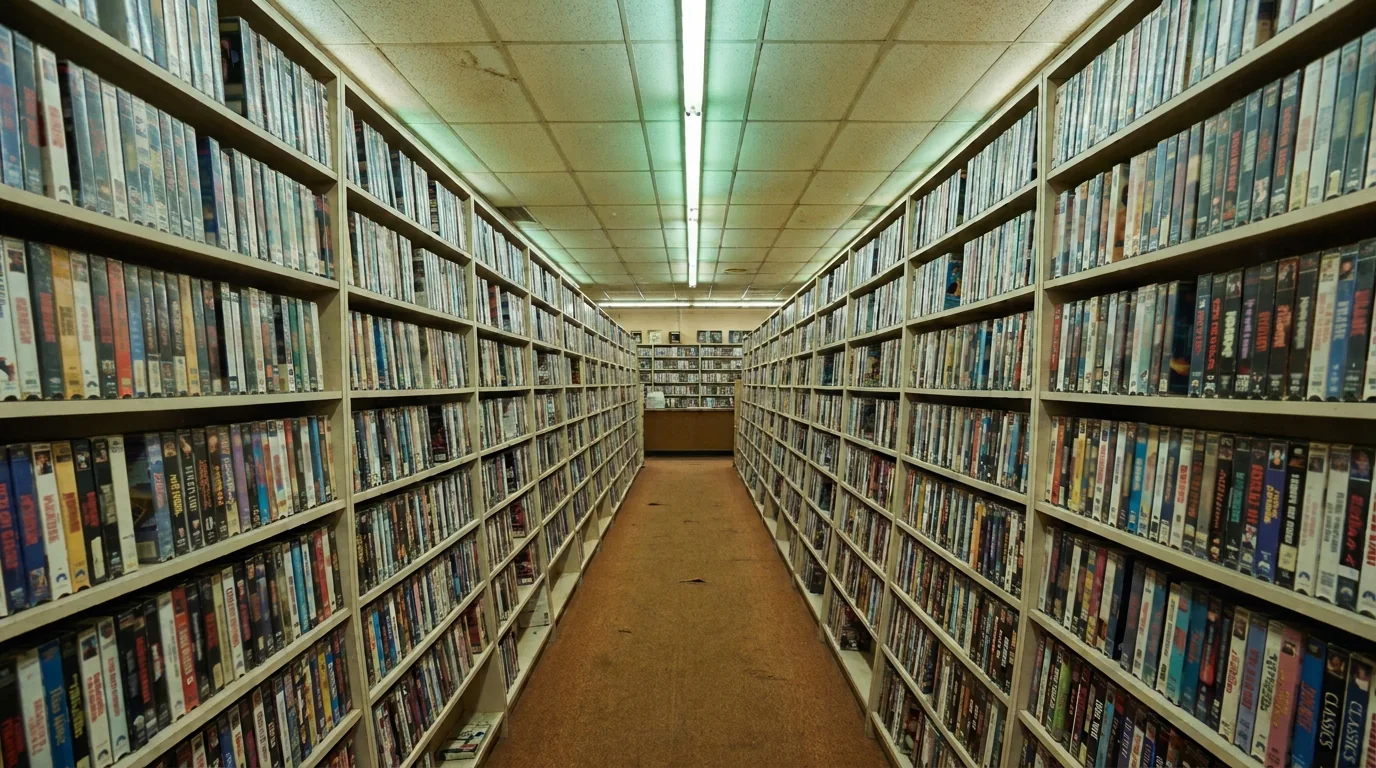
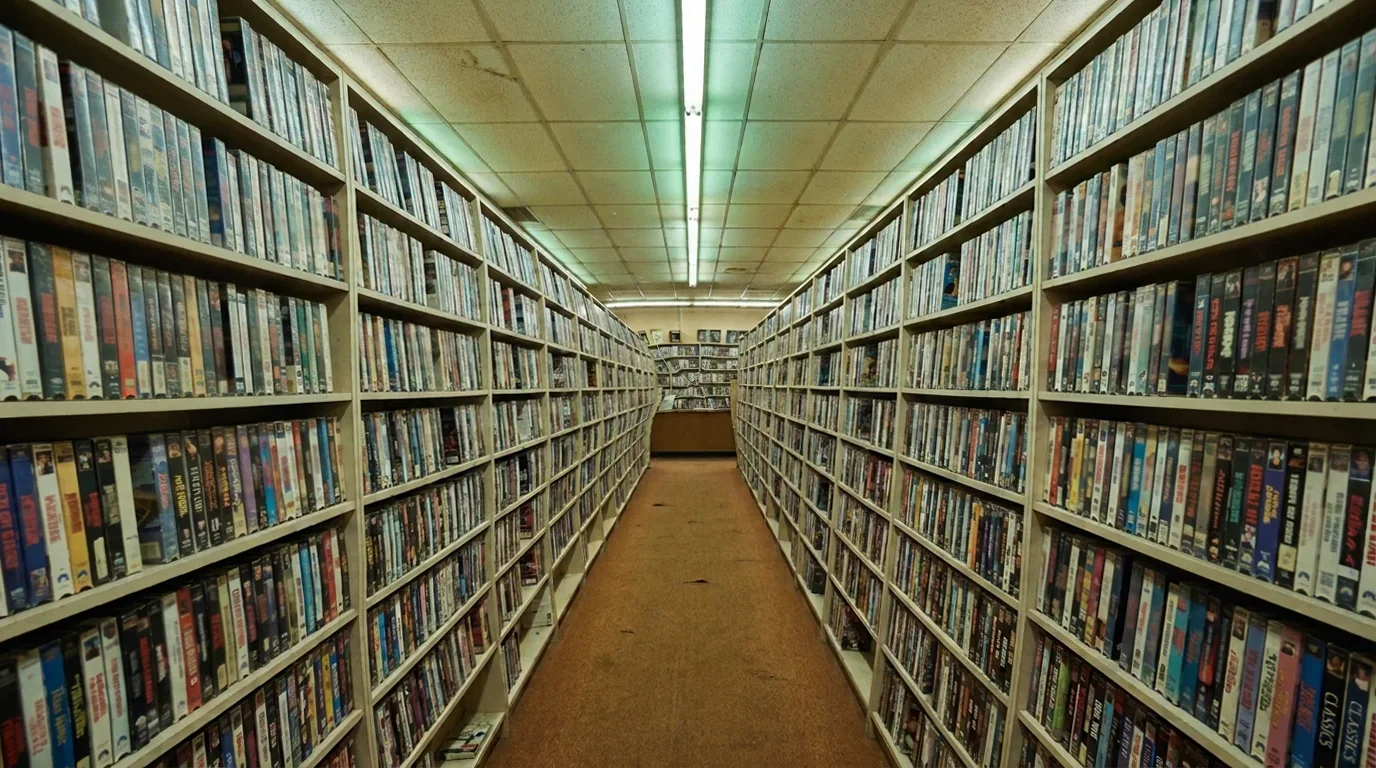
Video Kave, allée : photo redressée, mur gauche, mur droit, plafond et sol fuient vers un même point à 3 px près (avant : 28 px d'écart) ; planches, haut des étagères, plinthes et néon se prolongent d'un niveau emboîté à l'autre ; fondus du raccord resserrés, la fin du néon et la rampe transversale 
Claude-Session: https://claude.ai/code/session_014nJuEKtcDcjgZmvCVg6pCS

diff --git a/kave/videoclub.html b/kave/videoclub.html
@@ -138,7 +138,7 @@ function fit(){var W=innerWidth,Hh=innerHeight-barH(),sw=Math.min(W,Hh*IA),cov=M
 var cv=$('#hall'),gl=null,P=null,U={},TEX=null,img=new Image(),ready=false;
 /* 13 nov. 2026 (Mauk Tenieb) : nouvelles photos de l'allée, du rayon et du comptoir ; point de fuite, rayon et comptoir recalés */
 /* 10 nov. (A51) : l'allée sans fond ; le fond de l'allée contient la même allée, trois fois plus petite, à l'infini (récursion au point de fuite), sous l'optique en barillet qui mange les bords */
-/* 22 nov. (Mauk Tenieb : « ce filtre venant se répandre par le haut droit ») : à chaque bouclage, le cadrage montrait le bord haut de la photo, fondu au noir ; Z0 cadre désormais toujours à l'intérieur de la photo, coins compris */var K=.2,Z0=.83,KD=.33,V=[.5033,.5005]/* 22 nov. : point de fuite relevé sur la photo (néon à x 692,5 px, étagères à y 384 px) : la copie emboîtée prolonge le néon sans cassure */,HOLE=[552/1376,275/768,808/1376,505/768],R0=HOLE.map(function(x,j){var c=V[j%2];return c+(x-c)/KD}),FV=[180/1376,115/768];
+/* 22 nov. (Mauk Tenieb : « ce filtre venant se répandre par le haut droit ») : à chaque bouclage, le cadrage montrait le bord haut de la photo, fondu au noir ; Z0 cadre désormais toujours à l'intérieur de la photo, coins compris */var K=.2,Z0=.83,KD=.33,V=[692.1/1376,383/768]/* 26 nov. : photo redressée ; mur gauche, mur droit, plafond et sol fuient vers ce point à 3 px près (avant : 28 px d'écart) ; planches, haut des étagères, plinthes et néon se prolongent d'un niveau emboîté à l'autre */,HOLE=[552/1376,275/768,808/1376,505/768],R0=HOLE.map(function(x,j){var c=V[j%2];return c+(x-c)/KD}),FV=[60/1376,30/768]/* 26 nov. : fondus du raccord resserrés (le fond devient opaque dès y 284 au plafond, 19 px sur les côtés) ; la fin du néon et la rampe transversale ne transparaissent plus en arc */;
 var S={D:0,v:0,push:0,foc:[.5,.49],hl:[0,0,0],hlT:[0,0,0],lum:1,tm:0,intro:-1};
 var CREEP=RM?0:.022;
 var VS='attribute vec2 p;void main(){gl_Position=vec4(p,0.,1.);}';
@@ -146,7 +146,7 @@ var VS='attribute vec2 p;void main(){gl_Position=vec4(p,0.,1.);}';
 var FS='precision highp float;uniform sampler2D T,T2;uniform vec2 R,Vp,Fo,Fv;uniform float Uu,Lk,Kd,Kk,Z,Pu,Lu,Tm,Ia,E1,F1;uniform vec3 Hl;uniform vec4 M1,M0;'+
 'vec2 fin(vec2 s){return Fo+(s-Fo)*(1.-.6*Pu);}'+
 'float ins(vec2 s){vec2 m=min(s,1.-s);return smoothstep(0.,.012,m.x)*smoothstep(0.,.012,m.y);}'+
-'float in2(vec2 s){vec2 m=min(s,1.-s);return smoothstep(0.,.2,m.x)*smoothstep(0.,.26,s.y)*smoothstep(0.,.09,1.-s.y);}'+
+'float in2(vec2 s){vec2 m=min(s,1.-s);return smoothstep(0.,.1,m.x)*smoothstep(0.,.1,s.y)*smoothstep(0.,.06,1.-s.y);}'+
 'float bx(vec2 p,vec4 r,vec2 f){return smoothstep(r.x,r.x+f.x,p.x)*smoothstep(r.z,r.z-f.x,p.x)*smoothstep(r.y,r.y+f.y,p.y)*smoothstep(r.w,r.w-f.y,p.y);}'+
 'vec3 bl(vec2 t){return max(texture2D(T2,clamp(t,.0,1.)).rgb,vec3(.03));}'+
 'void main(){vec2 q=(gl_FragCoord.xy-.5*R)/R.y;q.y=-q.y;float a=R.x/R.y,r2=dot(q,q)/(a*a*.25+.25),c=max(1.,a/Ia);'+
@@ -210,8 +210,8 @@ function startHall(){if(gl){gl.activeTexture(gl.TEXTURE0);TEX=gl.createTexture()
   gl.texParameteri(gl.TEXTURE_2D,gl.TEXTURE_MIN_FILTER,gl.LINEAR);gl.texParameteri(gl.TEXTURE_2D,gl.TEXTURE_MAG_FILTER,gl.LINEAR);var bc=document.createElement('canvas');bc.width=48;bc.height=27;var bx2=bc.getContext('2d');bx2.imageSmoothingQuality='high';bx2.drawImage(img,0,0,48,27);gl.activeTexture(gl.TEXTURE1);var TB=gl.createTexture();gl.bindTexture(gl.TEXTURE_2D,TB);gl.texImage2D(gl.TEXTURE_2D,0,gl.RGBA,gl.RGBA,gl.UNSIGNED_BYTE,bc);['TEXTURE_WRAP_S','TEXTURE_WRAP_T'].forEach(function(k){gl.texParameteri(gl.TEXTURE_2D,gl[k],gl.CLAMP_TO_EDGE)});gl.texParameteri(gl.TEXTURE_2D,gl.TEXTURE_MIN_FILTER,gl.LINEAR);gl.texParameteri(gl.TEXTURE_2D,gl.TEXTURE_MAG_FILTER,gl.LINEAR);gl.activeTexture(gl.TEXTURE0);/* 22 nov. (Mauk Tenieb : « cette ligne de nuances séparatrice ») : chaque niveau emboîté prend la nuance d'ensemble du niveau qui l'entoure, d'après cette photo floue ; zéro ligne de nuance au raccord */
  ready=true;size()}
  if(!RM)S.intro=performance.now();else S.lum=1;kick()}
-if(!glInit()){cv.style.display='none';var fl=$('#hallflat');fl.style.display='block';fl.src='a/vc/vc-01-salle.webp?v=1114'}
-img.onload=startHall;img.src='a/vc/vc-01-salle.webp?v=1114';
+if(!glInit()){cv.style.display='none';var fl=$('#hallflat');fl.style.display='block';fl.src='a/vc/vc-01-salle.webp?v=1126'}
+img.onload=startHall;img.src='a/vc/vc-01-salle.webp?v=1126';
 
 /* 3. les gestes dans la salle : glisser ou molette pour avancer, toucher un rayon, toucher la lampe du fond */
 var hs=$('#salle'),pd=null;

diff --git a/sw.js b/sw.js
@@ -1,5 +1,5 @@
 /* Insert Koin: pages and code from the network first (the cache only when offline); images, fonts and wasm from the cache, then refreshed */
-const C='borne-202611222100';  // prefix borne- : this worker clears only its own caches, Insert Koin's ik- caches stay
+const C='borne-202611262130';  // prefix borne- : this worker clears only its own caches, Insert Koin's ik- caches stay
 self.addEventListener('install',e=>self.skipWaiting());
 self.addEventListener('activate',e=>e.waitUntil(caches.keys().then(ks=>Promise.all(ks.filter(k=>k!==C&&(k.indexOf('borne-')===0||(k.indexOf('ik-')===0&&k.indexOf('ik-archive')!==0))).map(k=>caches.delete(k)))).then(()=>self.clients.claim())));
 self.addEventListener('fetch',e=>{const u=new URL(e.request.url);if(e.request.method!=='GET'||u.origin!==location.origin||e.request.headers.has('range'))return;  // audio and video read by ranges go to the network (Safari)
